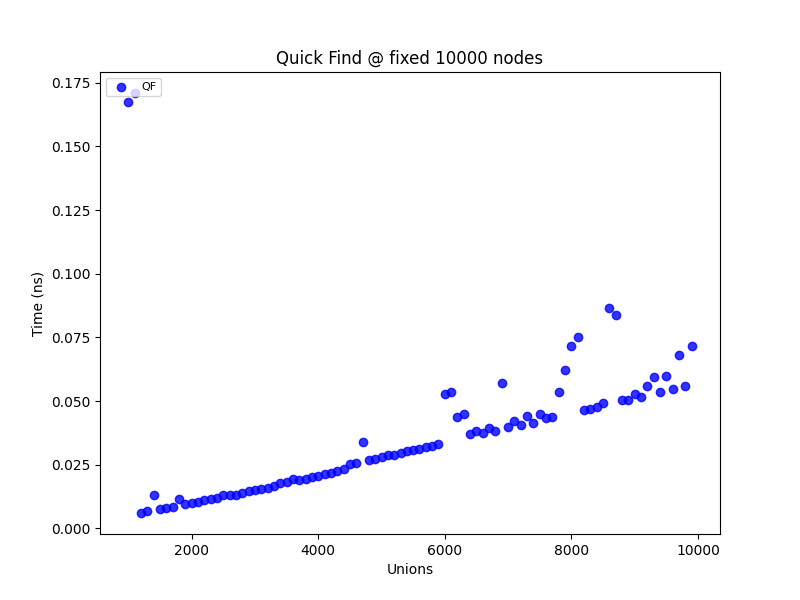
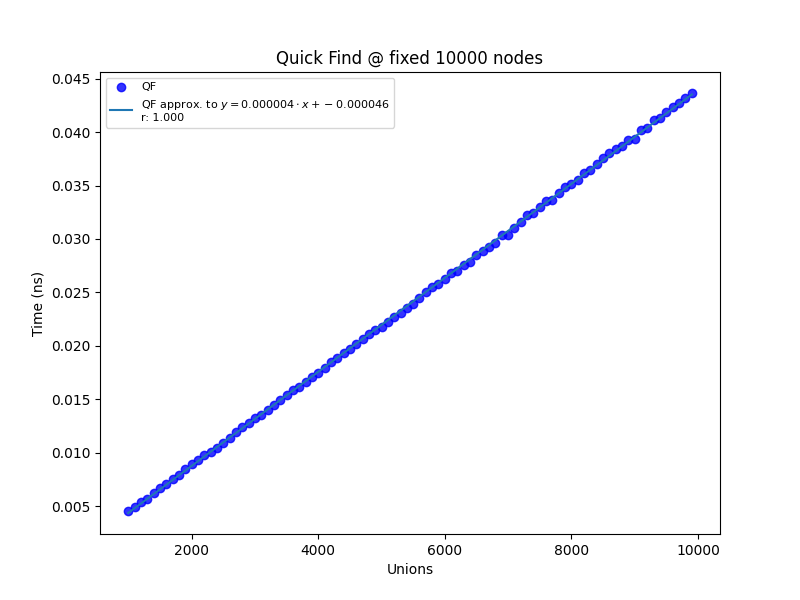
assignment 1 graphs done

diff --git a/A01/src/race/kSumRace.java b/A01/src/race/kSumRace.java
@@ -5,35 +5,66 @@ import src.Timeit;
 import src.Util;
 import src.ksum.ThreeSum;
 import src.ksum.ThreeSumCached;
+import src.uf.WeightedUnionFind;
 
 public class kSumRace {
-    final int SAMPLES = 50;
-    public void start() {
+    private int SIZE;
+    private int START;
+    private int STEPS;
+    private final int SAMPLES = 100;
 
-        Integer[] sizes_threesum = new Integer[]{ 100,
-                                                  110, 120, 130, 140, 150, 160, 170, 180, 190, 200, 
-                                                  210, 220, 230, 240, 250, 260, 270, 280, 290, 300,
-                                                  310, 320, 330, 340, 350, 360, 370, 380, 390, 400,
-                                                  410, 420, 430, 440, 450, 460, 470, 480, 490, 500};
-        
-        String max = sizes_threesum[sizes_threesum.length-1].toString();
+    public void run(int SIZE, int STEPS, int START, Plotter<Integer,Double> plt) {
 
-        Integer [] targets = Util.genIntArray(sizes_threesum.length);
+        this.START = START;
+        this.STEPS = STEPS;
+        this.SIZE = SIZE;
+
+        int arraySize = (SIZE - START) / STEPS; // Calculate the size of the array, rounding down
+        Integer[] sizes = new Integer[arraySize];
+
+        for (int i = 0; i < arraySize; i++) {
+            sizes[i] = START + i * STEPS;
+        }
+
+        Integer [] targets = Util.genIntArray(SIZE);
         
-        System.out.println("\nBrute-Force versus Cached 3-Sum "+max+" Max Elements.");
+        System.out.println("\nBrute-Force versus Cached 3-Sum "+SIZE+" Max Elements.");
                 
-        Plotter<Integer, Double>plt = new Plotter<>("ksum/BruteforcevsCached_"+max+".png", "Length", "Time (ms)", Plotter.Type.EXPONENTIAL,"Brute-Force versus Cached 3-Sum "+max+" Max Elements.");
         
+        Plotter<Integer, Double>pltTS = new Plotter<>("ksum/TS_"+SIZE+".png", "Length", "Time (ms)", Plotter.Type.EXPONENTIAL,"Brute-Force 3-Sum @ "+SIZE+" Max Elements.");
+        Double[] times = runTS(SIZE, STEPS, START, sizes, targets, pltTS);
+        plt.add(sizes, times, "Brute-force");
 
-        ThreeSum ts = new ThreeSum();
-        Double[] times = getksumTimes(sizes_threesum, ts, targets);
-        plt.add(sizes_threesum, times, "Brute-force");
-
-        ThreeSumCached tsc = new ThreeSumCached();
-        times = getksumTimes(sizes_threesum, tsc, targets);
-        plt.add(sizes_threesum, times, "Cached");
+        Plotter<Integer, Double>pltTSC = new Plotter<>("ksum/TSC_"+SIZE+".png", "Length", "Time (ms)", Plotter.Type.EXPONENTIAL,"Cached 3-Sum @ "+SIZE+" Max Elements.");
+        times = runTSC(SIZE, STEPS, START, sizes, targets, pltTSC);
+        plt.add(sizes, times, "Cached");
+        
         plt.plot();
     }
+
+    private Double[] runTSC(int SIZE, int STEPS, int START, Integer[] sizes_threesum,Integer [] targets, Plotter<Integer,Double> plt) {
+
+        System.out.println("\nGraphing Cached Threesum @ "+SIZE+" elements");
+        
+        ThreeSumCached tsc = new ThreeSumCached();
+        Double[] times = getksumTimes(sizes_threesum, tsc, targets);
+        plt.add(sizes_threesum, times, "Cached");
+        plt.plot();
+
+        return times;
+    }
+
+    private Double[] runTS(int SIZE, int STEPS, int START, Integer[] sizes_threesum,Integer [] targets, Plotter<Integer,Double> plt) {
+
+        System.out.println("\nGraphing Cached Threesum @ "+SIZE+" elements");
+        
+        ThreeSum ts = new ThreeSum();
+        Double[]times = getksumTimes(sizes_threesum, ts, targets);
+        plt.add(sizes_threesum, times, "Cached");
+        plt.plot();
+
+        return times;
+    } 
 
 
     public Double[] getksumTimes(Integer[] sizes, ThreeSum ts, Integer[] targets) {

diff --git a/A01/src/App.java b/A01/src/App.java
@@ -1,16 +1,30 @@
 package src;
 
+import src.race.kSumRace;
 import src.race.qfFixedRace;
-
 
 public class App {
     public static void main(String[] args) {
-    
-    
-        Plotter<Integer, Double> plt = new Plotter<>("uf/WUFvsQFvsQU_10_000_max.png", "Unions", "Time (ns)", Plotter.Type.SCATTER,"Weighted UnionFind vs QuickFind vs Quick Union  @ fixed 10_000 nodes");
         qfFixedRace race = new qfFixedRace();
+        kSumRace tsrace = new kSumRace();
+    
+        
+        /**
+        Plotter<Integer, Double> plt = new Plotter<>("uf/WUFvsQFvsQU_10_000_max.png", "Unions", "Time (ns)", Plotter.Type.SCATTER,"Weighted UnionFind vs QuickFind vs Quick Union @ fixed 10_000 nodes");
+        race = new qfFixedRace();
         race.runAll(10000, 100, 1000, plt);
+        plt = new Plotter<>("uf/WUFvsQFvsQU_20_000_max.png", "Unions", "Time (ns)", Plotter.Type.SCATTER,"Weighted UnionFind vs QuickFind vs Quick Union @ fixed 20_000 nodes");
         race.runAll(20000, 200, 1000, plt);
-        //race.run(100000, 10000, 10000);
+        plt = new Plotter<>("uf/WUFvsQFvsQU_30_000_max.png", "Unions", "Time (ns)", Plotter.Type.SCATTER,"Weighted UnionFind vs QuickFind vs Quick Union @ fixed 30_000 nodes");
+        race.runAll(30000, 300, 1000, plt);
+
+        plt = new Plotter<>("uf/WUFvsQF_10_000_max.png", "Unions", "Time (ns)", Plotter.Type.LINEAR,"Weighted UnionFind vs Quick Find  @ fixed 10_000 nodes");
+        race.runWFvQF(10000, 100, 1000, plt);
+        */
+
+        Plotter<Integer, Double> plt = new Plotter<>("ksum/BruteForcevsCached_100.png", "Length", "Time (ms)", Plotter.Type.EXPONENTIAL,"Brute-Force versus Cached 3-Sum @ 100 Max Elements.");
+        tsrace.run(200, 5, 5, plt);
+        plt = new Plotter<>("ksum/BruteForcevsCached_500.png", "Length", "Time (ms)", Plotter.Type.EXPONENTIAL,"Brute-Force versus Cached 3-Sum @ 500 Max Elements.");
+        tsrace.run(500, 10, 100, plt);
     }
 }

diff --git a/A01/src/race/qfFixedRace.java b/A01/src/race/qfFixedRace.java
@@ -48,6 +48,33 @@ public class qfFixedRace {
         plt.plot();
     }
 
+
+    public void runWFvQF(int SIZE, int STEPS, int START, Plotter<Integer,Double> plt) {
+        this.START = START;
+        this.STEPS = STEPS;
+        this.SIZE = SIZE;
+
+        int arraySize = (SIZE - START) / STEPS; // Calculate the size of the array, rounding down
+        Integer[] unions = new Integer[arraySize];
+
+        for (int i = 0; i < arraySize; i++) {
+            unions[i] = START + i * STEPS;
+        }
+
+        System.out.println("\nGraphing Weighted Union Find versus Quick Find at fixed sized "+SIZE+" for varying numbers of Unions");
+        
+        
+        Plotter<Integer, Double> pltWF = new Plotter<>("uf/WUF_"+SIZE+".png", "Unions", "Time (ns)", Plotter.Type.SCATTER,"Weighted Union Find @ fixed "+SIZE+" nodes");
+        Double[] times = runWF(SIZE, STEPS, START, unions,pltWF);
+        plt.add(unions, times, "WF");
+
+        Plotter<Integer, Double> pltQF = new Plotter<>("uf/QF_"+SIZE+".png", "Unions", "Time (ns)", Plotter.Type.LINEAR,"Quick Find @ fixed "+SIZE+" nodes");
+        times = runQF(SIZE, STEPS, START, unions,pltQF);
+        plt.add(unions, times, "QF");
+
+        plt.plot();
+    }
+
     private Double[] runWF(int SIZE, int STEPS, int START, Integer[] unions, Plotter<Integer,Double> plt) {
 
         System.out.println("\nGraphing Weighted Union Find at fixed sized "+SIZE+" for varying numbers of Unions");

diff --git a/A01/src/scripts/pyplot.py b/A01/src/scripts/pyplot.py
@@ -96,11 +96,11 @@ def __generate_expected_data(slope: float, intercept:float,x: list[float], plot_
 def __get_graph_data(x_coords: List[float], y_coords: List[float], type: str) -> tuple[str, List[float]]:
     if type == "Linear":
         slope, intercept, r_value = __linear_regression(x_coords, y_coords)
-        equation = fr'$y={slope:.3f} \cdot x + {intercept:.3f}$' + '\n' + f'r: {r_value:.3f}'
+        equation = fr'$y={slope:.6f} \cdot x + {intercept:.6f}$' + '\n' + f'r: {r_value:.3f}'
 
     elif type == "Exponential":
         slope, intercept, r_value = __power_law(x_coords, y_coords)
-        equation = fr'$y={intercept:.3f} \cdot x^{{ {slope:.3f} }}$' + '\n' + f'r: {r_value:.3f}'
+        equation = fr'$y={intercept:.6f} \cdot x^{{ {slope:.6f} }}$' + '\n' + f'r: {r_value:.3f}'
 
     elif type == "None" or "Bar" or "Histogram" or "Scatter":
         equation = None
